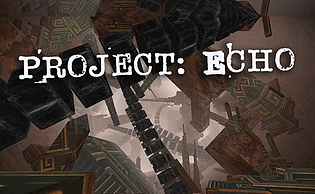
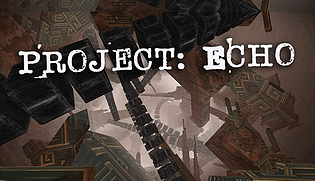
Better thumbnail hover effect

diff --git a/index.html b/index.html
@@ -28,7 +28,9 @@
 
         <div class="flex">
             <div class="project" id="mother" onclick="window.location='Projects/mother.html'">
-                <img src="Assets/Images/mom.png" class="projectThumbnail">
+                <div>
+                    <img src="Assets/Images/mom.png" class="projectThumbnail">
+                </div>
                 <div class="projectInfoSection">
                     <p class="subTitle">Game Project 3</p>
                     <p class="projectHeader">M0THER</p>
@@ -36,7 +38,9 @@
                 </div>
             </div>
             <div class="project" id="technomania" onclick="window.location='Projects/technomania.html'">
-                <img src="Assets/Images/Techno2.jpg" class="projectThumbnail">
+                <div>
+                    <img src="Assets/Images/Techno2.jpg" class="projectThumbnail">
+                </div>
                 <div class="projectInfoSection">
                     <p class="subTitle">Game Project 2</p>
                     <p class="projectHeader">TECHNOMANIA</p>
@@ -46,7 +50,9 @@
         </div>
         <div class="flex" style="margin-top: 5vh">
             <div class="project" id="specialization" onclick="window.location='Projects/specialization.html'">
-                <img src="Assets/Images/mom.png" class="projectThumbnail">
+                <div>
+                    <img src="Assets/Images/mom.png" class="projectThumbnail">
+                </div>
                 <div class="projectInfoSection">
                     <p class="subTitle">Specialization</p>
                     <p class="projectHeader">3D Pathfinding</p>
@@ -54,7 +60,9 @@
                 </div>
             </div>
             <div class="project" id="projectEcho" onclick="window.location='Projects/project-echo.html'">
-                <img src="Assets/Images/project_echo.png" class="projectThumbnail">
+                <div>
+                    <img src="Assets/Images/project_echo.png" class="projectThumbnail">
+                </div>
                 <div class="projectInfoSection">
                     <p class="subTitle">Game Project 1</p>
                     <p class="projectHeader">Project: Echo</p>

diff --git a/js/portfolio.js b/js/portfolio.js
@@ -11,6 +11,7 @@ class ProjectElement
     {
         this.boxElement = document.getElementById(elementId);
         this.titleElement = this.boxElement.querySelector(".projectHeader");
+        this.thumbnailImage = this.boxElement.querySelector(".projectThumbnail");
         this.hoveredColor = color;
         this.unhoveredColor = this.boxElement.style.borderColor;
 
@@ -23,8 +24,8 @@ class ProjectElement
         this.isHovered = !this.isHovered;
         let color = this.isHovered ? this.hoveredColor : this.unhoveredColor;
         this.boxElement.style.borderColor = color;
-        this.boxElement.style.padding = this.isHovered ? "1%" : "2%";
         this.titleElement.style.color = color;
+        this.thumbnailImage.style.maxHeight = this.isHovered ? "29.2vh" : "28vh";
     }
 }
 

diff --git a/css/style.css b/css/style.css
@@ -150,14 +150,21 @@ body{
     cursor: pointer;
 }
 
+.project:hover{
+    padding: 1% 1% 2%;
+}
+
 .projectThumbnail{
     border-radius: 1rem;
     width: 100%;
     max-height: 28vh;
+    transition: 0.4s;
 }
 
 .projectInfoSection{
+    margin: auto;
     margin-top: 5%;
+    width: 80%;
 }
 
 .subTitle{
